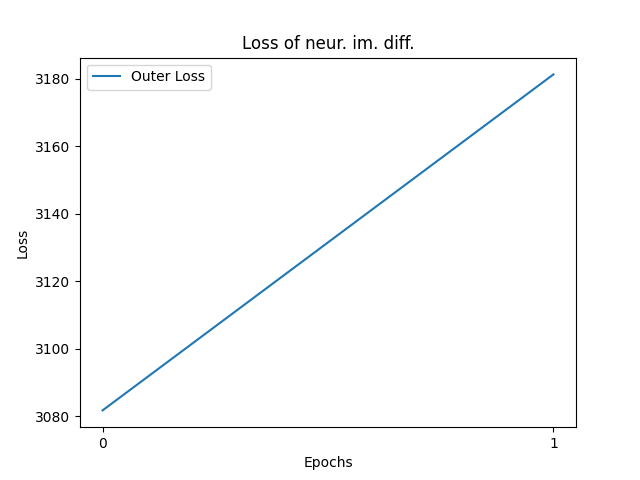
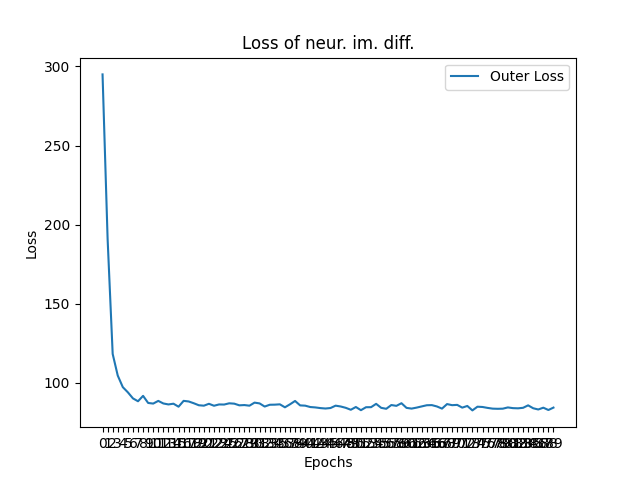
gradient being null bug fixed

diff --git a/src/model/BilevelProblem/BilevelProblem.py b/src/model/BilevelProblem/BilevelProblem.py
@@ -57,7 +57,7 @@ class BilevelProblem:
     if not (type(batch_size) is int):
       raise TypeError("Batch size must be an integer value.")
 
-  def optimize(self, mu, max_epochs=1, outer_optimizer=None, test_dataloader=None, max_iters=30):
+  def optimize(self, mu, max_epochs=1, outer_optimizer=None, test_dataloader=None, max_iters=100):
     """
     Find the optimal outer solution.
       param mu: initial value of the outer variable
@@ -70,6 +70,7 @@ class BilevelProblem:
       epoch_loss = 0
       #for X_outer, y_outer in self.outer_dataloader:
       for data in self.outer_dataloader:
+        print("Outer epoch:", epoch, "iteration:", iters)
         X_outer, main_label, aux_label, data_id = data
         aux_label = torch.stack(aux_label)
         y_outer = (main_label, aux_label)
@@ -85,39 +86,35 @@ class BilevelProblem:
         for pred in inner_value:
           pred.retain_grad()
         loss = self.outer_loss(mu, inner_value, y_outer)
-        print("Outer iteration loss:", self.inner_solution.loss)
-        #make_dot(loss, show_attrs=True, show_saved=True).render("graph_loss", format="png")#dict([('mu', mu),
+        print("Inner loss:", self.inner_solution.loss)
+        print("Outer loss:", loss.item())
+        #make_dot(loss, show_attrs=True, show_saved=True).render("graph_loss", format="png")
         # Backpropagation
         self.outer_optimizer.zero_grad()
         loss.backward()
-        print("Grad. of mu:", mu.grad[2:5])
-        exit(0)
         self.outer_optimizer.step()
         # Update loss and iteration count
-        loss = 0
-        epoch_loss += loss#.item()
+        epoch_loss += loss.item()
         epoch_iters += 1
         iters += 1
         duration = time.time() - start
         times.append(duration)
+        # Inner losses
+        inner_losses.append(self.inner_solution.loss)
+        # Outer losses
+        outer_losses.append(epoch_loss/epoch_iters)
+        # Test losses
+        if not (test_dataloader is None):
+          test_loss = self.evaluate(test_dataloader, mu)
+          test_losses.append(test_loss)
+        else:
+          test_losses.append(0)
         if epoch_iters >= max_iters:
           break
       self.outer_scheduler.step()
-      # Evaluate at the end of every epoch
-      outer_losses.append(epoch_loss/epoch_iters)
-      print("Outer iteration:", epoch, "|", iters)
       print("Outer iteration avg. loss:", epoch_loss/epoch_iters)
       print("Inner iteration avg. loss:", self.inner_solution.loss)
-      inner_losses.append(self.inner_solution.loss)
       print("Inner dual iteration avg. loss:", self.inner_solution.dual_loss)
-      if not (test_dataloader is None):
-        test_loss, accuracy = self.evaluate(test_dataloader, mu)
-        test_losses.append(test_loss)
-        print("Test avg. loss:", test_loss)
-        print("Test avg. acc.:", accuracy)
-      else:
-        test_losses.append(0)
-      print("Outer variable:", mu)
     return iters, outer_losses, inner_losses, test_losses, times
   
   def evaluate(self, test_dataloader, mu, max_iters=10):
@@ -126,40 +123,23 @@ class BilevelProblem:
       param test_dataloader: test data
       param mu: outer variable
     """
-    total_loss, total_acc, iters = 0, 0, 0
+    total_loss, iters = 0, 0
     #for X_test, y_test in self.test_dataloader:
-    # _____NYUv2 start_____
-    for item in test_dataloader:
-      eval_data, eval_label, eval_depth, eval_normal = item
-      X_outer = eval_data
-      y_outer = (eval_label, eval_depth, eval_normal)
-      # _____NYUv2 end_____
-      # Move to GPU
-      X_outer = X_outer.to(self.device)
-      if type(y_outer) is tuple:
-        nb_items = len(y_outer)
-        for i in range(nb_items):
-          l = list(y_outer)
-          l[i] = l[i].to(self.device)
-          y_outer = tuple(l)
-      else:
-        y_outer = y_outer.to(self.device)
+    for data in test_dataloader:
+      X_outer, main_label, aux_label, data_id = data
+      aux_label = torch.stack(aux_label)
+      y_outer = (main_label, aux_label)
+      # Move data to GPU
+      X_outer = X_outer.to(self.device, dtype=torch.float)
+      for task in y_outer:
+        task.to(self.device, dtype=torch.float)
+      #y_outer = y_outer.to(self.device, dtype=torch.float)
       # Inner value corresponds to h*(X_outer)
       inner_value = self.inner_solution(mu, X_outer, y_outer)
-      # Compute accuracy
-      seg, depth, normal = y_outer
-      seg_pred, depth_pred, pred_normal = inner_value
-      _, predicted = torch.max(seg_pred.data, 1)
-      value = seg.detach().flatten().cpu()
-      pred = predicted.detach().flatten().cpu()
-      correct = torch.sum(value==pred)
-      total = torch.sum(value!=-1)
-      acc = correct/total
-      total_acc += acc
-      # Compute loss
       loss = self.outer_loss(mu, inner_value, y_outer)
       total_loss += loss.item()
       iters += 1
       if iters >= max_iters:
         break
-    return total_loss/iters, total_acc/iters
+    print("Test avg. loss:", total_loss/iters)
+    return total_loss/iters

diff --git a/src/tests/birds_main.py b/src/tests/birds_main.py
@@ -70,7 +70,7 @@ else:
     print("No GPUs found, setting the device to CPU.")
 
 # Setting hyper-parameters
-batch_size = 64
+batch_size = 8
 max_epochs = 2
 
 # Dataloaders for inner and outer data
@@ -79,7 +79,7 @@ inner_dataloader = DataLoader(train_dataset, batch_size=batch_size, shuffle=True
 valid_dataset = Bird_dataset_naive(valid_image_file,label_file,image_root,transform=test_transform, finegrain=True)
 outer_dataloader = DataLoader(valid_dataset, batch_size=batch_size, shuffle=True)
 test_dataset = Bird_dataset_naive(test_image_file,label_file,image_root,transform=test_transform, finegrain=True)
-test_dataloader = DataLoader(test_dataset, batch_size=batch_size, shuffle=False)
+test_dataloader = DataLoader(test_dataset, batch_size=batch_size, shuffle=True)
 
 # Inner model
 # Neural network to approximate the function h*
@@ -89,15 +89,15 @@ inner_model = ResNet().to(device)
 #for name, param in inner_model.named_parameters():
 #    print(name)
 # Optimizer that improves the approximation of h*
-inner_optimizer = torch.optim.SGD(inner_model.parameters(), lr=10000)#e-1)
-inner_scheduler = lr_scheduler.StepLR(inner_optimizer, step_size=500, gamma=0.5)
+inner_optimizer = torch.optim.SGD(inner_model.parameters(), lr=1e-1)
+inner_scheduler = lr_scheduler.StepLR(inner_optimizer, step_size=2, gamma=0.6)
 
 # Inner dual model
 # Neural network to approximate the function a*
 inner_dual_model = ResNet().to(device)
 # Optimizer that improves the approximation of a*
-inner_dual_optimizer = torch.optim.SGD(inner_dual_model.parameters(), lr=10000)#e-1)
-inner_dual_scheduler = lr_scheduler.StepLR(inner_dual_optimizer, step_size=500, gamma=0.5)
+inner_dual_optimizer = torch.optim.SGD(inner_dual_model.parameters(), lr=1e-1)
+inner_dual_scheduler = lr_scheduler.StepLR(inner_dual_optimizer, step_size=2, gamma=0.6)
 
 # Outer model
 # The outer neural network parametrized by the outer variable mu
@@ -107,8 +107,8 @@ outer_model = NeuralNetworkOuterModel(layer_sizes=[312,1]).to(device)
 # Initialize mu
 mu0 = torch.ones((312,1)).to(device)
 # Optimizer that improves the outer variable mu
-outer_optimizer = torch.optim.SGD([mu0], lr=100)#lr=1e-3, weight_decay=5e-3, momentum=.9)
-outer_scheduler = lr_scheduler.StepLR(outer_optimizer, step_size=5, gamma=0.5)
+outer_optimizer = torch.optim.SGD([mu0], lr=1)#lr=1e-3, weight_decay=5e-3, momentum=.9)
+outer_scheduler = lr_scheduler.StepLR(outer_optimizer, step_size=2, gamma=0.6)
 
 # Gather all models
 inner_models = (inner_model, inner_optimizer, inner_scheduler, inner_dual_model, inner_dual_optimizer, inner_dual_scheduler)
@@ -121,7 +121,7 @@ class_loss = nn.CrossEntropyLoss(reduction='mean')
 # Outer objective function
 def fo(mu, inner_value, labels):
     (main_pred, aux_pred) = inner_value
-    main_pred = torch.sigmoid(main_pred)
+    #main_pred = torch.sigmoid(main_pred)
     (main_label, aux_label) = labels
     loss = class_loss(main_pred, main_label.to(device, dtype=torch.long))
     return loss
@@ -129,7 +129,7 @@ def fo(mu, inner_value, labels):
 # Inner objective function
 def fi(mu, h_X_in, y_in):
     (main_pred, aux_pred) = h_X_in
-    main_pred = torch.sigmoid(main_pred)
+    #main_pred = torch.sigmoid(main_pred)
     aux_pred = torch.sigmoid(aux_pred)
     (main_label, aux_label) = y_in
     aux_label = aux_label.T
@@ -143,12 +143,14 @@ def fi(mu, h_X_in, y_in):
 
 # Optimize using neural implicit differention
 bp_neural = BilevelProblem(fo, fi, outer_dataloader, inner_dataloader, outer_models, inner_models, device, batch_size=batch_size)
-iters, outer_losses, inner_losses, test_losses, times = bp_neural.optimize(mu0, max_epochs=max_epochs, test_dataloader=None)
+iters, outer_losses, inner_losses, test_losses, times = bp_neural.optimize(mu0, max_epochs=max_epochs, test_dataloader=test_dataloader)
 
 # Show results
 print("Number of iterations:", iters)
 print("Average iteration time:", np.average(times))
 
-plot_loss(figures_dir+"loss_birds_2epochs_128batch_1000sz_nn", train_loss=inner_losses, title="Loss of neur. im. diff.")
+plot_loss(figures_dir+"loss_birds_4epoch_inner", train_loss=inner_losses, title="Inner loss of neur. im. diff.")
+plot_loss(figures_dir+"loss_birds_4epoch_outer", val_loss=outer_losses, title="Outer oss of neur. im. diff.")
+plot_loss(figures_dir+"loss_birds_4epoch_test", test_loss=test_losses, title="Test loss of neur. im. diff.")
 
 #Use gpu 23 or 28 rather than 21, more memory

diff --git a/src/model/InnerSolution/InnerSolution.py b/src/model/InnerSolution/InnerSolution.py
@@ -45,11 +45,10 @@ class InnerSolution(nn.Module):
     opt_inner_val = ArgMinOp.apply(self, mu, X_outer, y_outer)
     return opt_inner_val
 
-  def optimize(self, mu, max_epochs=1, max_iters=5):
+  def optimize(self, mu, max_epochs=1, max_iters=10):
     """
     Optimization loop for the inner-level model that approximates h*.
     """
-    #print("Optimizing inner model")
     epoch_loss, epoch_iters = 0, 0
     for epoch in range(max_epochs):
       #for X_inner, y_inner in self.inner_dataloader:
@@ -77,7 +76,7 @@ class InnerSolution(nn.Module):
       self.scheduler.step()
       self.loss = epoch_loss/epoch_iters
   
-  def optimize_dual(self, mu, X_outer, outer_grad2, max_epochs=1, max_iters=5):
+  def optimize_dual(self, mu, X_outer, outer_grad2, max_epochs=1, max_iters=10):
     """
     Optimization loop for the inner-level model that approximates a*.
     """
@@ -98,7 +97,6 @@ class InnerSolution(nn.Module):
         h_X_i = self.model.forward(X_inner)
         a_X_o = self.dual_model.forward(X_outer)
         loss = self.loss_H(mu, h_X_i, a_X_i, a_X_o, y_inner, outer_grad2)
-        #print("Inner dual loss:", loss.item())
         # Backpropagation
         self.dual_optimizer.zero_grad()
         loss.backward()
@@ -110,6 +108,7 @@ class InnerSolution(nn.Module):
       self.dual_scheduler.step()
       self.dual_loss = epoch_loss/epoch_iters
 
+  # TODO: what if I remember a larger batch in the outer data loader? To get a more precise a_X_o
   def loss_H(self, mu, h_X_i, a_X_i, a_X_o, y_inner, outer_grad2):
     """
     Loss function for optimizing a*.
@@ -133,10 +132,10 @@ class InnerSolution(nn.Module):
     # Compute the loss
     term1, term2 = 0, 0
     for i in range(nb_items):
-      term1 += torch.einsum('ij,ij->i', a_X_i[i], hessvp[i])
+      term1 += torch.einsum('bj,bj->b', a_X_i[i], hessvp[i])
     for i in range(nb_items):
-      term2 += torch.einsum('ij,ij->i',a_X_o[i], outer_grad2[i])
-    return (1/2)*(torch.mean(term1)+torch.mean(term2))
+      term2 += torch.einsum('bj,bj->b',a_X_o[i], outer_grad2[i])
+    return (1/2)*torch.mean(term1)+torch.mean(term2)
 
 
   def compute_hessian_vector_prod(self, mu, X_outer, y_outer, inner_value, dual_value):
@@ -192,8 +191,6 @@ class ArgMinOp(torch.autograd.Function):
     """
     Backward pass of a function that approximates h* for Neur. Imp. Diff.
     """
-    print("outer_grad2_0", outer_grad2_0[0,:])
-    print("outer_grad2_1", outer_grad2_1[0,:])
     outer_grad2 = (outer_grad2_0, outer_grad2_1)
     # Context ctx allows to communicate from forward to backward
     inner_solution = ctx.inner_solution

diff --git a/src/model/utils.py b/src/model/utils.py
@@ -94,17 +94,16 @@ def plot_loss(figname, train_loss=None, val_loss=None, test_loss=None, title="Se
     param test_loss: list of test loss values
   """
   plt.clf()
-  # Generate a sequence of integers to represent the epoch numbers
-  epochs = len(train_loss)
-  ticks = np.arange(0, epochs, 1)
-  plt.xticks(ticks=ticks) 
   # Plot and label the training and validation loss values
   if train_loss != None:
-    plt.plot(ticks, train_loss, label='Outer Loss')
+    ticks = np.arange(0, len(train_loss), 1)
+    plt.plot(ticks, train_loss, label='Inner Loss')
   if val_loss != None:
-    plt.plot(ticks, val_loss, label='Inner Loss')
+    ticks = np.arange(0, len(val_loss), 1)
+    plt.plot(ticks, val_loss, label='Outer Loss')
   if test_loss != None:
-    plt.plot(ticks, test_loss, label='Test Loss')  
+    ticks = np.arange(0, len(test_loss), 1)
+    plt.plot(ticks, test_loss, label='Test Loss')
   # Add in a title and axes labels
   plt.title(title)
   plt.xlabel('Epochs')
